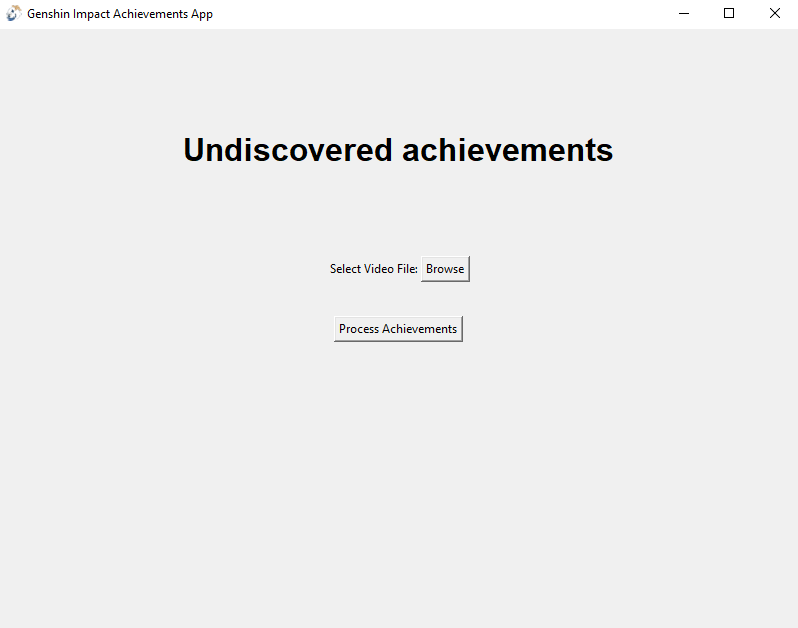
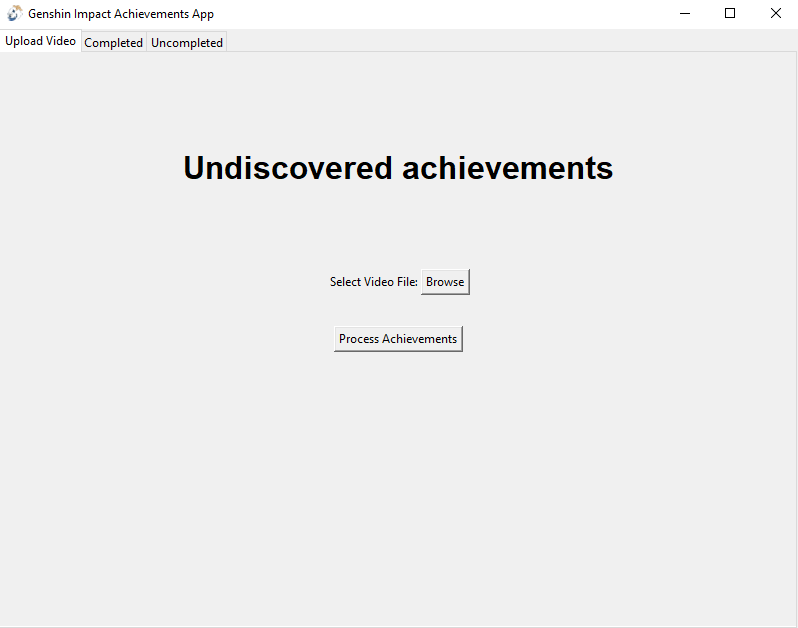
Change interface to swtich tab

diff --git a/gui/main_window.py b/gui/main_window.py
@@ -1,7 +1,6 @@
 import tkinter as tk
-from threading import Thread
-from process.processor import run
-from gui.file_selector import FileSelector
+from tkinter import ttk
+from .view.upload import UploadView
 
 class GenshinImpactAchievementsApp:
     def __init__(self, root):
@@ -13,37 +12,18 @@ class GenshinImpactAchievementsApp:
         icon_path = "resources/icon.ico"
         self.root.iconbitmap(icon_path)
 
-        self.label = tk.Label(self.root, text="Undiscovered achievements", font=("Helvetica", 24, "bold"))
-        self.label.place(relx=0.5, rely=0.2, anchor="center")
+        self.notebook = ttk.Notebook(self.root)  # Create a notebook widget
+        self.notebook.pack(fill="both", expand=True)
 
-        self.file_selector = FileSelector(self.root)
-        self.file_selector.place(relx=0.5, rely=0.4, anchor="center")
+        self.tab1 = ttk.Frame(self.notebook)
+        self.tab2 = ttk.Frame(self.notebook)
+        self.tab3 = ttk.Frame(self.notebook)
 
-        self.process_button = tk.Button(self.root, text="Process Achievements", command=self.process_achievements)
-        self.process_button.place(relx=0.5, rely=0.5, anchor="center")
+        self.notebook.add(self.tab1, text="Upload Video")  # Add tab 1
+        self.notebook.add(self.tab2, text="Completed")  # Add tab 2
+        self.notebook.add(self.tab3, text="Uncompleted") # Add tab 3
 
-    def process_achievements(self):
-        if hasattr(self.file_selector, "selected_file") and self.file_selector.get_selected_file():
-            self.process_button.config(state=tk.DISABLED)
-            self.process_button.update()
-            self.process_thread = Thread(target=self.process_achievements_thread)
-            self.process_thread.start()
-        else:
-            self.show_error("Please select a video file.")
-
-    def process_achievements_thread(self):
-        # Get the selected file from the FileSelector instance
-        video_path = self.file_selector.get_selected_file()
-        if video_path:
-            run(video_path)
-            self.show_message("Achievements processing completed.")
-            self.process_button.config(state=tk.NORMAL)
-
-    def show_error(self, message):
-        tk.messagebox.showerror("Error", message)
-
-    def show_message(self, message):
-        tk.messagebox.showinfo("Message", message)
+        self.upload_view = UploadView(self.tab1)
 
 if __name__ == "__main__":
     root = tk.Tk()

diff --git a/gui/view/upload.py b/gui/view/upload.py
@@ -1,0 +1,39 @@
+import tkinter as tk
+from process.processor import run
+from threading import Thread
+from ..file_selector import FileSelector
+
+class UploadView(tk.Frame):
+    def __init__(self, master=None, **kwargs):
+        super().__init__(master, **kwargs)
+        self.label = tk.Label(master, text="Undiscovered achievements", font=("Helvetica", 24, "bold"))
+        self.label.place(relx=0.5, rely=0.2, anchor="center")
+
+        self.file_selector = FileSelector(master)
+        self.file_selector.place(relx=0.5, rely=0.4, anchor="center")
+
+        self.process_button = tk.Button(master, text="Process Achievements", command=self.process_achievements)
+        self.process_button.place(relx=0.5, rely=0.5, anchor="center")
+
+    def process_achievements(self):
+        if hasattr(self.file_selector, "selected_file") and self.file_selector.get_selected_file():
+            self.process_button.config(state=tk.DISABLED)
+            self.process_button.update()
+            self.process_thread = Thread(target=self.process_achievements_thread)
+            self.process_thread.start()
+        else:
+            self.show_error("Please select a video file.")
+
+    def process_achievements_thread(self):
+        # Get the selected file from the FileSelector instance
+        video_path = self.file_selector.get_selected_file()
+        if video_path:
+            run(video_path)
+            self.show_message("Achievements processing completed.")
+            self.process_button.config(state=tk.NORMAL)
+
+    def show_error(self, message):
+        tk.messagebox.showerror("Error", message)
+
+    def show_message(self, message):
+        tk.messagebox.showinfo("Message", message)
